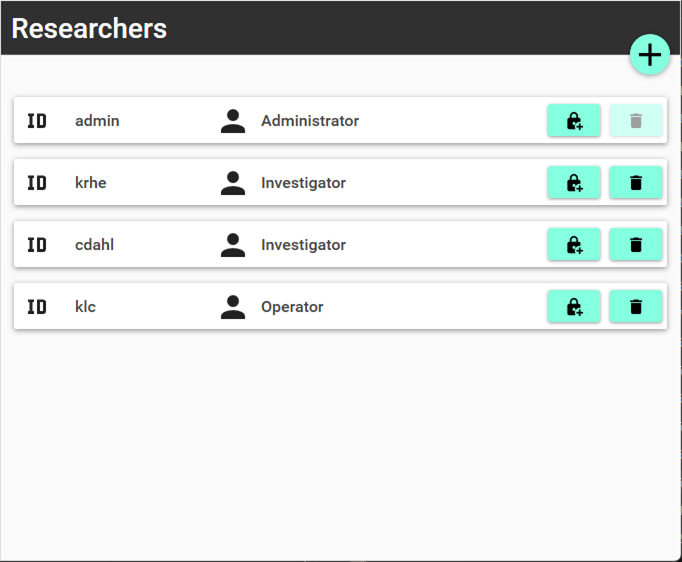
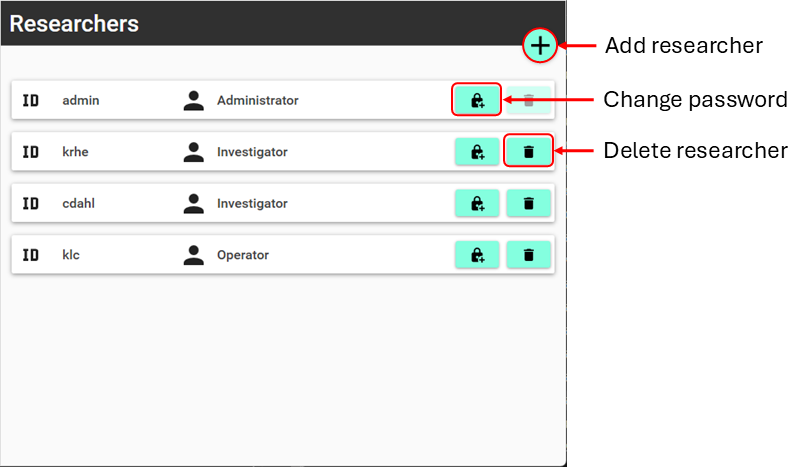
Work on Admin guide

diff --git a/content/en/docs/administration/researchers.md b/content/en/docs/administration/researchers.md
@@ -4,33 +4,47 @@ description: The Researchers page will only be visible if the User Access Contro
 weight: 5
 ---
 
+LabBench uses role-based access control. When LabBench is installed, this system is disabled, meaning anyone opening LabBench has full access, including the ability to perform potentially destructive actions such as deleting data or entire studies.
 
-## Roles
+For single-researcher environments or environments that can rely on computer logins, this may be acceptable. However, in multiple-researcher environments, it may be required to restrict access to certain actions, which can be accomplished by enabling the Access Control system.
 
-|             | Action | Operator | Investigator | Administrator |
-|-------------|--------|:--------:|:------------:|:-------------:|
-| **System**  |        | | | |
-| | Configure logging | | | ✔ |
-| | Configure access control | | | ✔ |
-| | Calibrate display | | | ✔ |
-| | License management | | | ✔ |
-| **Researchers** |        | | | |
-| | Set your own password           | ✔ | ✔ | ✔ |
-| | Set the password of other users | | | ✔ |
-| | Delete users                    | | | ✔ |
-| **Devices**     |        | | | |
-| | Add devices | ✔ | ✔ | ✔ |
-| | Remove devices | ✔ | ✔ | ✔ |
-| **Protocols**   |        | |   | |
-| | Configure reposities | | | ✔ |
-| | Create experiments | | | ✔ |
-| **Experiments** |        | | | |
-| | Add users to experiments | | ✔★ | ✔ |
-| | Delete experiments | | ✔★ | ✔ |
-| | Export data | | ✔★ | ✔ |
-| | Configure devices | | ✔★ | ✔ |
-| | Rerun post-session actions | | ✔★ | ✔ |
-| | Run experiment in LabBench Runner | ✔★ | ✔★ |   |
+## Roles and permissions
+
+|             | Action                 | Operator | Investigator | Administrator |
+|-------------|------------------------|:--------:|:------------:|:-------------:|
+| **System**  |                        |          |              |    |
+| | Configure logging                  |          |              | ✔ |
+| | Configure access control           |          |              | ✔ |
+| | Calibrate display                  |          |              | ✔ |
+| | License management                 |          |              | ✔ |
+| **Researchers**                      |          | | | |
+| | Add researcher                     | | | ✔ |
+| | Set your own password              | ✔ | ✔ | ✔ |
+| | Set the password of any researcher | | | ✔ |
+| | Delete researcher                  | | | ✔ |
+| **Devices**                          |        | | | |
+| | Add devices                        | ✔ | ✔ | ✔ |
+| | Remove devices                     | ✔ | ✔ | ✔ |
+| **Protocols**                        |        | |   | |
+| | Configure reposities               | | | ✔ |
+| | Create experiments                 | | | ✔ |
+| **Experiments**                      |        | | | |
+| | Add users to experiments           | | ✔★ | ✔ |
+| | Delete experiments                 | | ✔★ | ✔ |
+| | Export data                        | | ✔★ | ✔ |
+| | Configure devices                  | | ✔★ | ✔ |
+| | Rerun post-session actions         | | ✔★ | ✔ |
+| | Run experiment in LabBench Runner  | ✔★ | ✔★ |   |
 
 
-*★ only to experiments that the user has access to*
+*★ only to experiments that the researcher has access to*
+
+## Manageing researchers
+
+### Adding researchers
+
+### Setting passwords
+
+### Deleting researchers
+
+## Disabling access control

diff --git a/content/en/docs/administration/system.md b/content/en/docs/administration/system.md
@@ -54,7 +54,7 @@ A free version of Seq Log Server for single-computer use is available. When the 
 
 LabBench uses role-based access control. When LabBench is installed, this system is disabled, meaning anyone opening LabBench has full access, including the ability to perform potentially destructive actions such as deleting data or entire studies.
 
-For single-user environments or environments that can rely on computer logins, this may be acceptable. However, in multiple-user environments, it may be required to restrict access to certain actions, which can be accomplished by enabling the Access Control system. Access Control can be enabled on the Access Control page (please see Figure 2).
+For single-researcher environments or environments that can rely on computer logins, this may be acceptable. However, in multiple-researcher environments, it may be required to restrict access to certain actions, which can be accomplished by enabling the Access Control system. Access Control can be enabled on the Access Control page (please see Figure 2).
 
 
 ![](/images/Administration_System/Slide3.PNG)
